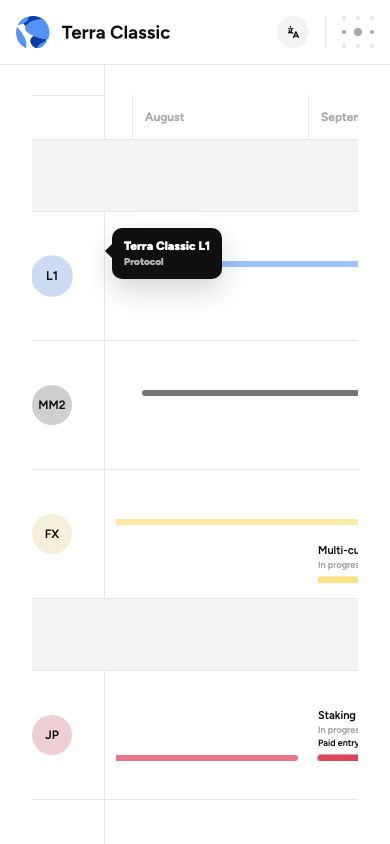
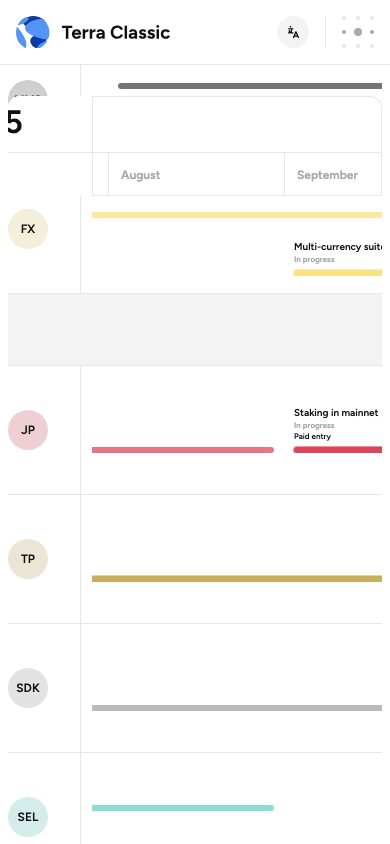
Fixes to roadmap

diff --git a/src/designsystem.tsx b/src/designsystem.tsx
@@ -839,44 +839,49 @@ function RoadmapTimelinePreview() {
   const rows = roadmapRows.slice(0, 3);
 
   return (
-    <div className="roadmap-scroll ds-roadmap-preview" aria-label="Roadmap timeline component specimen" tabIndex={0}>
-      <div className="roadmap-grid">
-        <div className="roadmap-axis" aria-hidden="true">
-          <div className="roadmap-axis__corner" />
-          <div className="roadmap-axis__year tc-type-h2" style={{ gridColumn: "2 / 8" }}>2025</div>
-          <div className="roadmap-axis__year tc-type-h2" style={{ gridColumn: "8 / 17" }}>2026</div>
-          <div className="roadmap-axis__corner roadmap-axis__corner--months" />
+    <div className="roadmap-board ds-roadmap-preview">
+      <div className="roadmap-axis-shell" style={{ "--roadmap-scroll-left": "0px" } as CSSProperties} aria-hidden="true">
+        <div className="roadmap-axis__corner" />
+        <div className="roadmap-axis__track">
+          <div className="roadmap-axis__year roadmap-axis__year--first tc-type-h2" style={{ gridColumn: "1 / 7" }}>2025</div>
+          <div className="roadmap-axis__year tc-type-h2" style={{ gridColumn: "7 / 16" }}>2026</div>
           {roadmapMonths.map((month, index) => (
-            <div className="roadmap-axis__month tc-type-body-small" style={{ gridColumn: index + 2 }} key={`ds-${month.key}`}>{month.label}</div>
+            <div className={`roadmap-axis__month tc-type-body-small${index === 0 ? " roadmap-axis__month--first" : ""}`} style={{ gridColumn: index + 1 }} key={`ds-${month.key}`}>
+              {month.label}
+            </div>
           ))}
         </div>
-        {rows.map((row) => (
-          <article className={`roadmap-row roadmap-row--${row.group}`} style={{ "--roadmap-accent": row.accent } as CSSProperties} key={`ds-${row.id}`}>
-            <div className="roadmap-row__project">
-              <span className="roadmap-row__avatar tc-type-link-big">{row.shortName}</span>
-              <span className="roadmap-row__identity">
-                <strong className="tc-type-h5">{row.project}</strong>
-                <small className="tc-type-body-very-small">{row.category}</small>
-              </span>
-            </div>
-            <div className="roadmap-lane">
-              {roadmapMonths.map((month) => <span className="roadmap-lane__month" key={`ds-${row.id}-${month.key}`} aria-hidden="true" />)}
-              {row.milestones.slice(0, 3).map((milestone) => {
-                const start = dsRoadmapMonthIndex.get(milestone.start) ?? 0;
-                const end = dsRoadmapMonthIndex.get(milestone.end) ?? start;
-                return (
-                  <div className="roadmap-milestone" style={{ gridColumn: `${start + 1} / ${end + 2}` }} key={`ds-${row.id}-${milestone.title}`}>
-                    <div className="roadmap-milestone__meta">
-                      <strong>{milestone.title}</strong>
-                      <span>{milestone.status}</span>
+      </div>
+      <div className="roadmap-scroll" aria-label="Roadmap timeline component specimen" tabIndex={0}>
+        <div className="roadmap-grid">
+          {rows.map((row) => (
+            <article className={`roadmap-row roadmap-row--${row.group}`} style={{ "--roadmap-accent": row.accent } as CSSProperties} key={`ds-${row.id}`}>
+              <div className="roadmap-row__project">
+                <span className="roadmap-row__avatar tc-type-link-big">{row.shortName}</span>
+                <span className="roadmap-row__identity">
+                  <strong className="tc-type-h5">{row.project}</strong>
+                  <small className="tc-type-body-very-small">{row.category}</small>
+                </span>
+              </div>
+              <div className="roadmap-lane">
+                {roadmapMonths.map((month) => <span className="roadmap-lane__month" key={`ds-${row.id}-${month.key}`} aria-hidden="true" />)}
+                {row.milestones.slice(0, 3).map((milestone) => {
+                  const start = dsRoadmapMonthIndex.get(milestone.start) ?? 0;
+                  const end = dsRoadmapMonthIndex.get(milestone.end) ?? start;
+                  return (
+                    <div className="roadmap-milestone" style={{ gridColumn: `${start + 1} / ${end + 2}` }} key={`ds-${row.id}-${milestone.title}`}>
+                      <div className="roadmap-milestone__meta">
+                        <strong>{milestone.title}</strong>
+                        <span>{milestone.status}</span>
+                      </div>
+                      <span className={`roadmap-milestone__bar roadmap-milestone__bar--${milestone.status}`} />
                     </div>
-                    <span className={`roadmap-milestone__bar roadmap-milestone__bar--${milestone.status}`} />
-                  </div>
-                );
-              })}
-            </div>
-          </article>
-        ))}
+                  );
+                })}
+              </div>
+            </article>
+          ))}
+        </div>
       </div>
     </div>
   );

diff --git a/src/styles/global.css b/src/styles/global.css
@@ -1,7 +1,7 @@
 @import url("https://fonts.googleapis.com/css2?family=Figtree:wght@400;500;600;800&display=swap");
 
 * { box-sizing: border-box; }
-html { overflow-x: clip; scroll-behavior: smooth; }
+html { overflow-x: clip; scroll-behavior: smooth; -webkit-text-size-adjust: 100%; text-size-adjust: 100%; }
 body { margin: 0; overflow-x: clip; background: var(--color-white); color: var(--color-black); font-family: var(--font-family); }
 body.mobile-drawer-open { overflow: hidden; }
 a { color: inherit; text-decoration: none; }
@@ -944,7 +944,7 @@ h1 { margin: 0; font-size: var(--tc-type-h1-size); line-height: var(--tc-type-h1
 .roadmap-page__trust p { margin: 0; }
 .roadmap-page__trust { min-height: 0; padding: 0; margin-top: 20px; border-radius: 0; background: transparent; display: flex; align-items: center; justify-content: center; }
 .roadmap-page__trust .native-phase__badge { align-self: center; background: var(--color-white); }
-.roadmap-board { border-radius: var(--radius-card); background: var(--color-white); box-shadow: inset 0 0 0 1px var(--color-grey-100); overflow: hidden; }
+.roadmap-board { --roadmap-axis-sticky-top: 0px; --roadmap-label-width: 280px; --roadmap-month-width: 248px; --roadmap-mask-width: 0px; --roadmap-content-inset: 24px; border-radius: var(--radius-card); background: var(--color-white); box-shadow: inset 0 0 0 1px var(--color-grey-100); overflow: visible; }
 .roadmap-board__headline { min-height: 120px; padding: 24px 32px; display: flex; align-items: flex-end; justify-content: space-between; gap: 48px; border-bottom: 1px solid var(--color-grey-100); }
 .roadmap-board__headline h2,
 .roadmap-board__headline p { margin: 0; }
@@ -954,23 +954,23 @@ h1 { margin: 0; font-size: var(--tc-type-h1-size); line-height: var(--tc-type-h1
 .roadmap-legend__dot { width: 8px; height: 8px; border-radius: 999px; display: inline-block; background: var(--color-blue); }
 .roadmap-legend__dot--community { background: var(--color-yellow); }
 .roadmap-legend__dot--paid { background: var(--color-black); }
-.roadmap-scroll { --roadmap-label-width: 280px; --roadmap-month-width: 248px; --roadmap-mask-width: 16px; width: 100%; overflow-x: auto; overflow-y: hidden; scrollbar-gutter: stable; overscroll-behavior-x: contain; }
+.roadmap-scroll { width: 100%; overflow-x: auto; overflow-y: hidden; scrollbar-gutter: stable; overscroll-behavior-x: contain; }
 .roadmap-scroll:focus-visible { outline-offset: -3px; }
 .roadmap-scroll::-webkit-scrollbar { height: 14px; }
 .roadmap-scroll::-webkit-scrollbar-track { background: var(--color-grey-50); }
 .roadmap-scroll::-webkit-scrollbar-thumb { border: 4px solid var(--color-grey-50); border-radius: var(--radius-pill); background: var(--color-grey-500); }
 .roadmap-grid { width: max-content; min-width: 100%; }
-.roadmap-axis,
 .roadmap-group,
 .roadmap-row { display: grid; grid-template-columns: var(--roadmap-label-width) var(--roadmap-mask-width) repeat(15, var(--roadmap-month-width)); width: max-content; min-width: 100%; }
-.roadmap-axis { grid-template-rows: 72px 56px; background: var(--color-white); }
-.roadmap-axis__corner { position: sticky; left: 0; z-index: 4; grid-column: 1; grid-row: 1; background: var(--color-white); box-shadow: 1px 0 0 var(--color-grey-100), var(--roadmap-mask-width) 0 0 var(--color-white); }
-.roadmap-axis__corner--months { grid-row: 2; border-top: 1px solid var(--color-grey-100); }
-.roadmap-axis__year { grid-row: 1; align-self: end; padding: 0 24px 16px; border-left: 1px solid var(--color-grey-100); }
-.roadmap-axis__month { grid-row: 2; display: flex; align-items: center; padding: 0 16px; border-left: 1px solid var(--color-grey-100); color: var(--color-grey-500); }
+.roadmap-axis-shell { position: sticky; top: var(--roadmap-axis-sticky-top); z-index: 12; display: grid; grid-template-columns: var(--roadmap-label-width) var(--roadmap-mask-width) minmax(0, 1fr); grid-template-rows: 72px 56px; width: 100%; overflow: hidden; border-radius: var(--radius-card) var(--radius-card) 0 0; background: var(--color-white); box-shadow: inset 0 -1px 0 var(--color-grey-100); }
+.roadmap-axis__track { grid-column: 3; grid-row: 1 / 3; display: grid; grid-template-columns: repeat(15, var(--roadmap-month-width)); grid-template-rows: 72px 56px; width: max-content; min-width: 100%; transform: translateX(calc(var(--roadmap-scroll-left, 0px) * -1)); will-change: transform; }
+.roadmap-axis__corner { position: relative; z-index: 3; grid-column: 1 / 3; grid-row: 1 / 3; background: var(--color-white); }
+.roadmap-axis__year { grid-row: 1; align-self: end; padding: 0 var(--roadmap-content-inset) 16px; border-left: 1px solid var(--color-grey-100); }
+.roadmap-axis__month { grid-row: 2; display: flex; align-items: center; padding: 0 var(--roadmap-content-inset); border-left: 1px solid var(--color-grey-100); color: var(--color-grey-500); }
+.roadmap-axis__month { border-top: 1px solid var(--color-grey-100); }
 .roadmap-group { min-height: 96px; border-top: 1px solid var(--color-grey-100); background: var(--color-grey-50); }
 .roadmap-group__label { position: sticky; left: 0; z-index: 6; grid-column: 1; display: flex; align-items: center; padding: 0 24px; background: var(--color-grey-50); box-shadow: 1px 0 0 var(--color-grey-100), var(--roadmap-mask-width) 0 0 var(--color-grey-50); }
-.roadmap-group__copy { position: sticky; left: calc(var(--roadmap-label-width) + var(--roadmap-mask-width)); z-index: 5; grid-column: 3 / -1; width: max-content; max-width: min(920px, calc(100vw - var(--roadmap-label-width) - 120px)); display: flex; align-items: center; gap: 24px; padding: 24px 48px; background: var(--color-grey-50); }
+.roadmap-group__copy { position: sticky; left: calc(var(--roadmap-label-width) + var(--roadmap-mask-width)); z-index: 5; grid-column: 3 / -1; width: max-content; max-width: min(920px, calc(100vw - var(--roadmap-label-width) - 120px)); display: flex; align-items: center; gap: 24px; padding: 24px var(--roadmap-content-inset); background: var(--color-grey-50); }
 .roadmap-group__copy h2,
 .roadmap-group__copy p { margin: 0; }
 .roadmap-group__copy p { max-width: 720px; color: var(--color-grey-500); }
@@ -988,7 +988,7 @@ h1 { margin: 0; font-size: var(--tc-type-h1-size); line-height: var(--tc-type-h1
 .roadmap-lane { grid-column: 3 / -1; position: relative; display: grid; grid-template-columns: repeat(15, var(--roadmap-month-width)); align-items: center; min-height: 136px; }
 .roadmap-lane__month { grid-row: 1; height: 100%; border-left: 1px solid var(--color-grey-100); }
 .roadmap-lane__month:last-of-type { border-right: 1px solid var(--color-grey-100); }
-.roadmap-milestone { --roadmap-stack-gap: 64px; --roadmap-stack-half-gap: 32px; position: relative; z-index: 2; grid-row: 1; align-self: center; min-width: 0; padding: 0 20px; display: flex; flex-direction: column; gap: 9px; overflow: hidden; transform: translateY(calc((var(--roadmap-stack, 0) * var(--roadmap-stack-gap)) - ((var(--roadmap-stack-span, 1) - 1) * var(--roadmap-stack-half-gap)))); }
+.roadmap-milestone { --roadmap-stack-gap: 64px; --roadmap-stack-half-gap: 32px; position: relative; z-index: 2; grid-row: 1; align-self: center; min-width: 0; padding: 0 var(--roadmap-content-inset); display: flex; flex-direction: column; gap: 9px; overflow: hidden; transform: translateY(calc((var(--roadmap-stack, 0) * var(--roadmap-stack-gap)) - ((var(--roadmap-stack-span, 1) - 1) * var(--roadmap-stack-half-gap)))); }
 .roadmap-milestone__meta { min-width: 0; display: grid; grid-template-columns: minmax(0, 1fr) auto; align-items: baseline; gap: 3px 8px; transition: opacity var(--tc-motion-base) var(--tc-ease-standard), visibility var(--tc-motion-base) var(--tc-ease-standard); }
 .roadmap-milestone--meta-hidden .roadmap-milestone__meta { opacity: 0; visibility: hidden; }
 .roadmap-milestone__meta strong { grid-column: 1 / -1; min-width: 0; white-space: normal; overflow-wrap: anywhere; font-size: 13px; line-height: 16px; font-weight: var(--tc-type-body-small-weight); }
@@ -1294,7 +1294,7 @@ h1 { margin: 0; font-size: var(--tc-type-h1-size); line-height: var(--tc-type-h1
   .faq-grid { grid-template-columns: repeat(2, minmax(0, 1fr)); }
   .roadmap-page { padding: 64px 48px 72px; }
   .roadmap-page__intro { grid-template-columns: minmax(0, 1fr) auto; gap: 48px; }
-  .roadmap-scroll { --roadmap-label-width: 280px; --roadmap-month-width: 220px; --roadmap-mask-width: 16px; }
+  .roadmap-board { --roadmap-axis-sticky-top: 72px; --roadmap-label-width: 280px; --roadmap-month-width: 220px; --roadmap-mask-width: 0px; }
   .roadmap-board__headline { padding: 24px; align-items: flex-start; flex-direction: column; }
   .roadmap-legend { justify-content: flex-start; max-width: 100%; }
   .ecosystem-page__intro { max-width: 100%; gap: 40px; }
@@ -1327,7 +1327,8 @@ h1 { margin: 0; font-size: var(--tc-type-h1-size); line-height: var(--tc-type-h1
   .roadmap-page { padding: 56px 48px 72px; }
   .roadmap-page__intro { grid-template-columns: 1fr; align-items: start; }
   .roadmap-page__copy { gap: 40px; }
-  .roadmap-page__trust { min-height: 0; margin-top: 0; }
+  .roadmap-page__trust { min-height: 0; margin-top: 0; justify-content: flex-start; }
+  .roadmap-page__trust .native-phase__badge { align-self: flex-start; }
   .hero { height: min(95vh, 776px); max-height: 776px; }
   .hero-copy { max-width: 100%; height: auto; }
   .hero-glow { inset: -88px -520px -140px -40px; }
@@ -1820,21 +1821,21 @@ h1 { margin: 0; font-size: var(--tc-type-h1-size); line-height: var(--tc-type-h1
   .roadmap-page__intro { gap: 32px; margin-bottom: 40px; }
   .roadmap-page__copy { gap: 24px; }
   .roadmap-page__trust { padding: 0; border-radius: 0; gap: 0; }
-  .roadmap-board { border-radius: 12px; }
+  .roadmap-board { --roadmap-axis-sticky-top: 65px; --roadmap-label-width: 72px; --roadmap-month-width: 88px; --roadmap-mask-width: 0px; --roadmap-content-inset: 12px; width: calc(100% + 48px); margin-inline: -24px; border-radius: 12px; }
   .roadmap-board__headline { min-height: 0; padding: 20px; gap: 20px; }
   .roadmap-board__headline p { margin-top: 6px; }
   .roadmap-legend { gap: 6px; }
   .roadmap-legend span { min-height: 28px; padding: 0 10px; }
-  .roadmap-scroll { --roadmap-label-width: 72px; --roadmap-month-width: 176px; --roadmap-mask-width: 12px; }
-  .roadmap-axis { grid-template-rows: 56px 44px; }
-  .roadmap-axis__year { padding: 0 14px 12px; font-size: 32px; line-height: 36px; }
-  .roadmap-axis__month { padding: 0 12px; }
+  .roadmap-axis-shell { grid-template-rows: 56px 44px; border-radius: 12px 12px 0 0; }
+  .roadmap-axis__track { grid-template-rows: 56px 44px; }
+  .roadmap-axis__year { padding: 0 var(--roadmap-content-inset) 12px; font-size: 32px; line-height: 36px; }
+  .roadmap-axis__month { padding: 0 var(--roadmap-content-inset); }
   .roadmap-group { min-height: 72px; }
   .roadmap-group__label { grid-column: 1 / -1; padding: 0 12px; align-items: flex-start; padding-top: 20px; }
   .roadmap-group__label .native-phase__badge { min-height: 28px; height: 28px; padding: 0 10px; font-size: 7px; letter-spacing: 3px; }
   .roadmap-group__copy { display: none; }
   .roadmap-row { min-height: 128px; }
-  .roadmap-row__project { padding: 16px 0; justify-content: flex-start; align-items: center; gap: 0; overflow: visible; background: var(--color-white); }
+  .roadmap-row__project { padding: 16px 0; justify-content: center; align-items: center; gap: 0; overflow: visible; background: var(--color-white); }
   .roadmap-row__avatar { width: 40px; height: 40px; font-size: 12px; line-height: 16px; }
   .roadmap-row__identity { display: none; }
   .roadmap-row__identity strong { font-size: 14px; line-height: 18px; white-space: normal; }
@@ -1848,9 +1849,9 @@ h1 { margin: 0; font-size: var(--tc-type-h1-size); line-height: var(--tc-type-h1
   .roadmap-milestone { padding: 0 10px; gap: 6px; }
   .roadmap-milestone { --roadmap-stack-gap: 58px; --roadmap-stack-half-gap: 29px; }
   .roadmap-milestone__meta { grid-template-columns: minmax(0, 1fr); align-items: flex-start; gap: 1px; }
-  .roadmap-milestone__meta strong { font-size: 11px; line-height: 14px; white-space: normal; display: -webkit-box; -webkit-line-clamp: 2; -webkit-box-orient: vertical; overflow: hidden; }
+  .roadmap-milestone__meta strong { font-size: 10px; line-height: 12px; white-space: normal; display: -webkit-box; -webkit-line-clamp: 2; -webkit-box-orient: vertical; overflow: hidden; }
   .roadmap-milestone__meta span,
-  .roadmap-milestone__meta em { font-size: 9px; line-height: 12px; }
+  .roadmap-milestone__meta em { font-size: 8px; line-height: 10px; }
   .roadmap-milestone__bar { height: 6px; }
   .ecosystem-page { padding: 40px 24px 56px; }
   .ecosystem-page__intro { gap: 24px; }

diff --git a/src/App.tsx b/src/App.tsx
@@ -1397,21 +1397,26 @@ function getMilestoneStack(milestones: RoadmapMilestone[]) {
   return { levels, span: Math.max(1, levelEnds.length) };
 }
 
-function RoadmapAxis() {
+function RoadmapAxis({ scrollLeft }: { scrollLeft: number }) {
   return (
-    <div className="roadmap-axis" aria-hidden="true">
+    <div className="roadmap-axis-shell" style={{ "--roadmap-scroll-left": `${scrollLeft}px` } as CSSProperties} aria-hidden="true">
       <div className="roadmap-axis__corner" />
-      {roadmapYearRanges.map((range) => (
-        <div className="roadmap-axis__year tc-type-h2" style={{ gridColumn: `${range.start + 3} / ${range.end + 4}` }} key={range.year}>
-          {range.year}
-        </div>
-      ))}
-      <div className="roadmap-axis__corner roadmap-axis__corner--months" />
-      {roadmapMonths.map((month, index) => (
-        <div className="roadmap-axis__month tc-type-body-small" style={{ gridColumn: index + 3 }} key={month.key}>
-          {month.label}
-        </div>
-      ))}
+      <div className="roadmap-axis__track">
+        {roadmapYearRanges.map((range) => (
+          <div
+            className={`roadmap-axis__year tc-type-h2${range.start === 0 ? " roadmap-axis__year--first" : ""}`}
+            style={{ gridColumn: `${range.start + 1} / ${range.end + 2}` }}
+            key={range.year}
+          >
+            {range.year}
+          </div>
+        ))}
+        {roadmapMonths.map((month, index) => (
+          <div className={`roadmap-axis__month tc-type-body-small${index === 0 ? " roadmap-axis__month--first" : ""}`} style={{ gridColumn: index + 1 }} key={month.key}>
+            {month.label}
+          </div>
+        ))}
+      </div>
     </div>
   );
 }
@@ -1522,9 +1527,9 @@ function RoadmapTimeline() {
   return (
     <section className="roadmap-board" aria-labelledby="roadmap-board-title">
       <h2 className="visually-hidden" id="roadmap-board-title">Decentralized roadmap</h2>
+      <RoadmapAxis scrollLeft={timelineMetrics.scrollLeft} />
       <div className="roadmap-scroll" role="region" aria-label="Horizontally scrollable Terra Classic roadmap" tabIndex={0} onScroll={handleTimelineScroll}>
         <div className="roadmap-grid">
-          <RoadmapAxis />
           <RoadmapGroupHeader group="public" />
           {publicRows.map((row) => (
             <RoadmapProjectRow

diff --git a/docs/069 - Roadmap subpage implementation - 2026-05-21.md b/docs/069 - Roadmap subpage implementation - 2026-05-21.md
@@ -6,14 +6,13 @@ Created: 2026-05-21
 
 This task adds the `roadmap.html` static subpage for the Terra Classic Website.
 
-The supplied lo-fi wireframe is treated as the content and interaction model: a horizontally scrollable decentralized roadmap timeline, a collapsed desktop sidebar default, and a submission CTA below the timeline.
+The supplied lo-fi wireframe is treated as the content and interaction model: a horizontally scrollable decentralized roadmap timeline and a collapsed desktop sidebar default. The earlier submission CTA was removed during QA so the page now hands off directly from the roadmap separator into the shared footer spacing.
 
 ## Product Rules Applied
 
 - The page remains static-only and GitHub Pages-compatible.
 - Terra Classic public roadmap entries are separated from L2 / community project-submitted roadmap entries.
 - Project-submitted and paid entries are clearly labeled so they do not imply official Terra Classic roadmap status.
-- The page includes a neutral disclaimer that Terra-classic.money does not guarantee future delivery of listed milestones.
 - The timeline content is held in `src/data/roadmap.ts` so Dawid can update entries without touching layout code.
 
 ## Implementation Notes
@@ -31,6 +30,7 @@ The supplied lo-fi wireframe is treated as the content and interaction model: a 
 - Render-check `http://127.0.0.1:5173/roadmap.html` at desktop, tablet, and mobile widths.
 - Confirm horizontal scrolling works inside the timeline on desktop and mobile.
 - Confirm the desktop sidebar defaults to collapsed on the Roadmap page.
+- Confirm the sticky project rail and sticky year/month axis remain synced during horizontal scrolling.
 - Check for console errors, horizontal document overflow, text overlap, and broken layout at representative breakpoints.
 
 ## Validation Results
@@ -97,3 +97,58 @@ The supplied lo-fi wireframe is treated as the content and interaction model: a 
 - Mobile tooltip QA verified: project identity text is hidden in the column, tapped circle reports `aria-expanded="true"`, tooltip content appears, no document-level horizontal overflow, timeline still scrolls horizontally, and visible milestone overlap count remains `0`.
 - Removed the "Would you like to add your project..." Roadmap submission CTA section.
 - Added direct `.roadmap-page + .footer` spacing so the footer still starts with `32px` top padding after the roadmap separator now that the CTA section is gone.
+
+## Sticky Axis And Mobile Rail Correction
+
+- Split the roadmap year/month axis out of the horizontally scrollable grid into a sticky `.roadmap-axis-shell`.
+- Synced the axis month track to `.roadmap-scroll.scrollLeft`, so horizontal scrolling keeps years/months aligned with milestone columns.
+- Set the axis sticky top to `0px` on desktop, `72px` on tablet, and `96px` on mobile so it pins under the active page chrome.
+- Locked mobile text sizing with `text-size-adjust: 100%` and reduced temporary milestone metadata to `10px / 12px` titles and `8px / 10px` metadata on mobile.
+- Expanded the actual mobile roadmap board to the viewport edge minus `8px` gutters while keeping document-level horizontal overflow disabled.
+- Centered the mobile icon rail inside the `72px` first column, leaving `16px` on both sides of the `40px` project-letter circle.
+- Re-ran `npm run check`; it passed after the sticky-axis and mobile-rail correction.
+- Rendered QA at `http://127.0.0.1:5175/roadmap.html` verified:
+  - desktop `1500 x 1000`: sticky axis top `0px`, scroll transform `-620px`, label width `280px`, no document-level horizontal overflow, internal timeline horizontal scroll active;
+  - mobile `390 x 844`: sticky axis top `96px`, scroll transform `-160px`, label width `72px`, board gutters `8px / 8px`, icon rail padding `16px / 16px`, milestone title font `10px`, no document-level horizontal overflow, internal timeline horizontal scroll active;
+  - no runtime exceptions or framework error overlay were detected during rendered QA.
+
+## Axis Alignment And Mask Correction
+
+- Removed the internal divider lines from the sticky axis corner so the fixed project-label area does not show unnecessary year/month guide lines.
+- Kept the first scrollable year/month boundary lines visible at the actual timeline start.
+- Aligned the first year label, first month label, group heading, group copy, and first milestone inset to the same content start on the unscrolled timeline.
+- Kept the sticky corner above the scrolling axis track so horizontally scrolled year/month labels do not leak into the fixed project-label area.
+- Updated the Roadmap design-system specimen to use the same sticky-axis structure as the production page.
+- Re-ran `npm run check`; it passed after the axis alignment and mask correction.
+- Rendered QA at desktop `1500 x 1000` with `scrollLeft = 620` verified sticky axis position, synced transform, first year/month boundary lines at `1px`, no framework overlay, and no document-level horizontal overflow.
+
+## Default Timeline Start Correction
+
+- Removed the visible layout spacer between the fixed project-label column and the scrollable timeline by setting the roadmap mask column to `0px`.
+- Kept the mask behavior through stacking order instead of visible horizontal space, so scrolled axis labels still do not visually leak into the fixed project-label area.
+- Re-ran `npm run check`; it passed after the default-position correction.
+- Rendered QA at desktop `1500 x 1000` verified the default state:
+  - fixed label edge, lane start, and axis track start all align at the same x-coordinate;
+  - year, month, group title, group copy, first milestone text, and first milestone bar all start `24px` after that separator;
+  - no framework overlay and no document-level horizontal overflow.
+
+## Sticky Axis Separator Correction
+
+- Added a `1px` bottom inset line to the sticky year/month axis shell so the pinned header remains separated from roadmap content while vertically scrolled.
+- Re-ran `npm run check`; it passed after the sticky-axis separator correction.
+- Rendered QA at desktop `1500 x 1000` with the page vertically scrolled and roadmap horizontally scrolled verified the sticky axis uses `inset 0 -1px 0 var(--color-grey-100)`, with no framework overlay and no document-level horizontal overflow.
+
+## Mobile Density And Badge Alignment Correction
+
+- Left-aligned the Roadmap `UPDATED MAY 21, 2026` badge on tablet and mobile breakpoints instead of centering it in the viewport.
+- Reduced mobile roadmap month columns from `176px` to `88px`, making the same roadmap timeline 50% denser on mobile while preserving horizontal scrolling.
+- Re-ran `npm run check`; it passed after the mobile density correction.
+- Rendered QA verified:
+  - tablet `900 x 1000`: badge wrapper uses `flex-start`, month width remains `220px`, roadmap still scrolls horizontally, no document-level horizontal overflow;
+  - mobile `390 x 844`: badge wrapper uses `flex-start`, month width is `88px`, roadmap still scrolls horizontally, board gutters remain `8px / 8px`, no framework overlay, and no document-level horizontal overflow.
+
+## Mobile Sticky Axis Offset Correction
+
+- Changed the mobile Roadmap sticky axis offset from the tablet-style `96px` to `65px`, matching the scrolled mobile nav height (`64px`) plus the nav bottom separator (`1px`).
+- Re-ran `npm run check`; it passed after the offset correction.
+- Rendered mobile QA at `390 x 844` verified the topbar is fixed at `64px`, the sticky axis starts at `65px`, the gap is exactly `1px`, month width remains `88px`, and there is no framework overlay or document-level horizontal overflow.